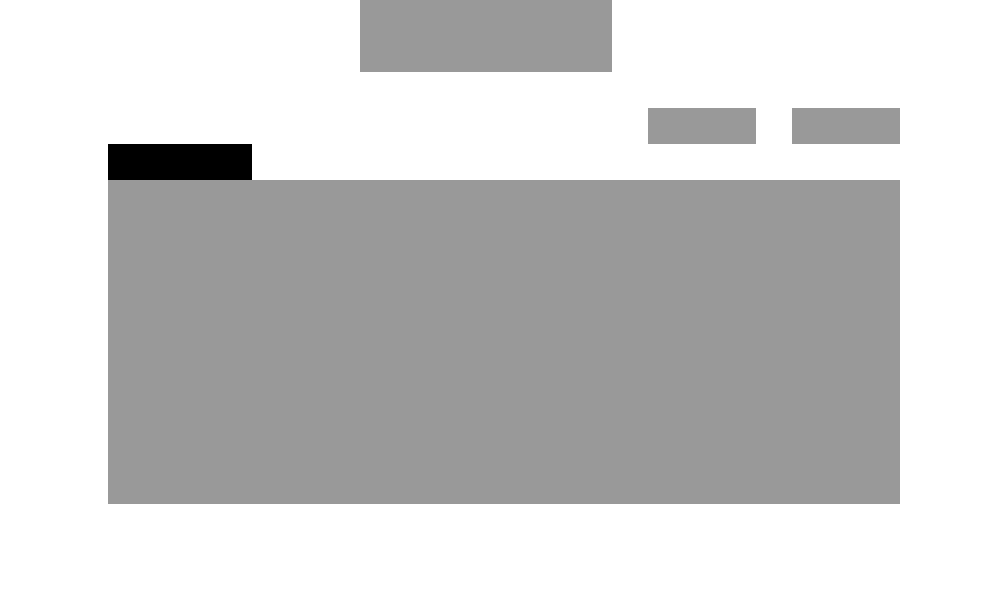
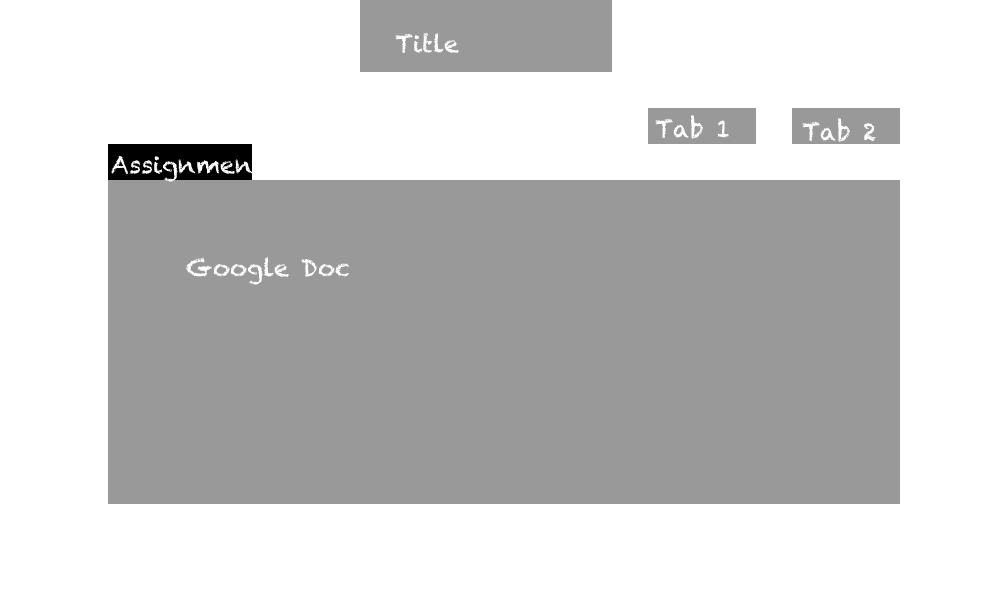
Added flowcharts and started wireframes

diff --git a/index.html b/index.html
@@ -76,7 +76,7 @@
       <h2> Client </h2>
         <ul>
           <li> Our Client will be Mr. Leung </li>
- 
+
       <h2> Audience </h2>
         <ul>
           <li> Our audience will be the people in the photography and the yearbook club </li>
@@ -91,7 +91,11 @@
           <li> THe students in these clubs actually use this site </li>
           <li></li>
 
+      <h2> Flowcharts </h2>
 
+
+
+      <h2> Wireframing </h2>
 
               </body>
 
